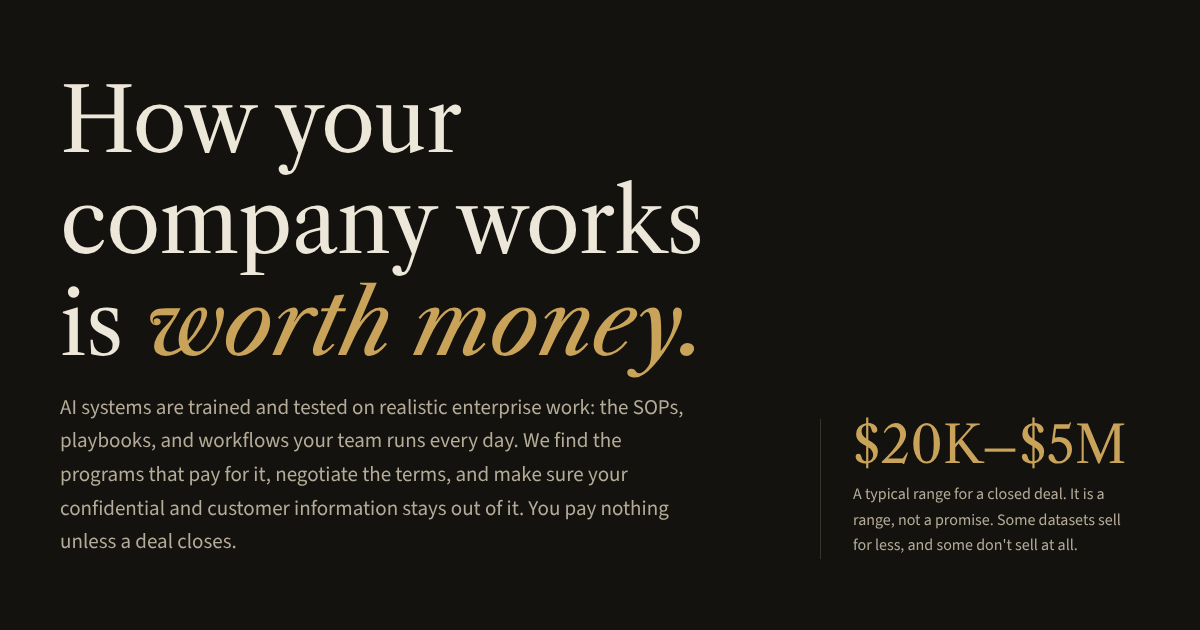
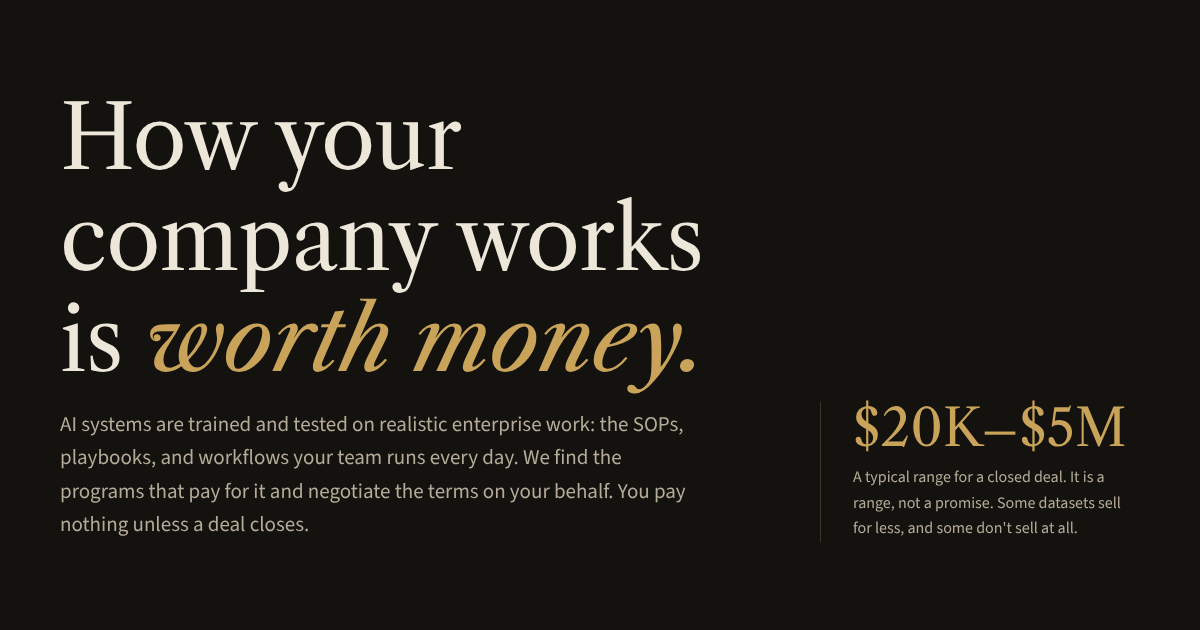
Remove claims that data will be scrubbed or redacted
Claude-Session: https://claude.ai/code/session_01WvBVaP6akkrshjtXrAuSnp

Changed region(s): [[0.0308, 0.1206, 0.5858, 0.8746], [0.7092, 0.6333, 0.9558, 0.8746]]

diff --git a/index.html b/index.html
@@ -4,7 +4,7 @@
   <meta charset="utf-8">
   <meta name="viewport" content="width=device-width, initial-scale=1">
   <title>Paystreak Data | Earn Revenue From Your Company's Operational Knowledge</title>
-  <meta name="description" content="Paystreak Data is a Boston-based data brokerage. We help operationally mature companies earn revenue by licensing scrubbed SOPs, playbooks, knowledge bases, and workflow data to programs that train and evaluate AI systems. No upfront cost.">
+  <meta name="description" content="Paystreak Data is a Boston-based data brokerage. We help operationally mature companies earn revenue by licensing SOPs, playbooks, knowledge bases, and workflow data to programs that train and evaluate AI systems. No upfront cost.">
   <link rel="canonical" href="https://paystreakdata.com/">
   <meta name="theme-color" content="#14120e">
 
@@ -12,7 +12,7 @@
   <meta property="og:type" content="website">
   <meta property="og:site_name" content="Paystreak Data">
   <meta property="og:title" content="Paystreak Data | How your company works is worth money">
-  <meta property="og:description" content="A Boston-based data brokerage for operationally mature companies. Sensitive information scrubbed, originals deleted after processing, you keep ownership, and no upfront cost.">
+  <meta property="og:description" content="A Boston-based data brokerage for operationally mature companies. We find the buyers and negotiate the terms. You keep ownership, and there's no upfront cost.">
   <meta property="og:url" content="https://paystreakdata.com/">
   <meta property="og:image" content="https://paystreakdata.com/og-image.png">
   <meta property="og:image:width" content="1200">
@@ -33,7 +33,7 @@
   "url": "https://paystreakdata.com/",
   "email": "contact@paystreakdata.com",
   "image": "https://paystreakdata.com/og-image.png",
-  "description": "Paystreak Data is a Boston-based data brokerage serving operationally mature companies across the United States. We help technology companies, BPOs, recruiting firms, financial services, consulting, professional services, legal and compliance, healthcare administration, and logistics businesses earn revenue from their operational knowledge by licensing scrubbed internal documentation and workflow data to programs that train and evaluate AI systems.",
+  "description": "Paystreak Data is a Boston-based data brokerage serving operationally mature companies across the United States. We help technology companies, BPOs, recruiting firms, financial services, consulting, professional services, legal and compliance, healthcare administration, and logistics businesses earn revenue from their operational knowledge by licensing internal documentation and workflow data to programs that train and evaluate AI systems.",
   "address": {
     "@type": "PostalAddress",
     "addressLocality": "Boston",
@@ -49,8 +49,7 @@
     "AI training data",
     "AI evaluation data",
     "Enterprise workflow data",
-    "Data licensing",
-    "Data redaction"
+    "Data licensing"
   ],
   "audience": {
     "@type": "BusinessAudience",
@@ -81,10 +80,10 @@
     },
     {
       "@type": "Question",
-      "name": "What about client confidentiality?",
+      "name": "What about confidentiality?",
       "acceptedAnswer": {
         "@type": "Answer",
-        "text": "Sensitive and confidential information is scrubbed before any downstream use, no customer information is exposed, and you approve every sample before it goes out. Privileged legal communications, patient records, and similar material need consent and legal review, and are often off the table entirely. We recommend having your own lawyer review any contract before you sign it."
+        "text": "How the data is handled is set out in the license between you and the buyer, and you approve what you share before anything goes out. Privileged legal communications, patient records, and similar material may need consent and legal review, and are often off the table entirely. We recommend having your own lawyer review any contract before you sign it."
       }
     },
     {
@@ -420,7 +419,7 @@
         <div class="hero-grid">
           <div>
             <h1 id="hero-title">How your company works is <em>worth money.</em></h1>
-            <p class="lede">AI systems are trained and tested on realistic enterprise work: the SOPs, playbooks, and workflows your team runs every day. We find the programs that pay for it, negotiate the terms, and make sure your confidential and customer information stays out of it. You pay nothing unless a deal closes.</p>
+            <p class="lede">AI systems are trained and tested on realistic enterprise work: the SOPs, playbooks, and workflows your team runs every day. We find the programs that pay for it and negotiate the terms on your behalf. You pay nothing unless a deal closes.</p>
             <div class="hero-actions">
               <a class="btn btn-gold" href="#contact">Get a free assessment</a>
               <a class="text-link" href="#fit">See if you're a fit</a>
@@ -441,7 +440,7 @@
       <div class="wrap">
         <p class="eyebrow">What we look for</p>
         <h2 class="h2" id="data-title">The knowledge your team runs on.</h2>
-        <p class="lede">Many companies hold valuable operational intelligence without realizing it. These are the kinds of records buyers ask about. In every case, sensitive and confidential information is scrubbed before any downstream use.</p>
+        <p class="lede">Many companies hold valuable operational intelligence without realizing it. These are the kinds of records buyers ask about.</p>
 
         <div class="cards">
           <article class="card reveal">
@@ -547,7 +546,7 @@
           <li class="step reveal">
             <p class="step-num" aria-hidden="true">02</p>
             <h3>We bring the buyers.</h3>
-            <p>We approach vetted programs that train and evaluate AI systems, and negotiate the terms on your behalf. Buyers see only scrubbed previews until a deal is signed.</p>
+            <p>We approach vetted programs that train and evaluate AI systems, and negotiate the terms on your behalf. Nothing is shared until you approve it.</p>
           </li>
           <li class="step reveal">
             <p class="step-num" aria-hidden="true">03</p>
@@ -637,9 +636,9 @@
             </div>
           </details>
           <details>
-            <summary>What about client confidentiality?</summary>
+            <summary>What about confidentiality?</summary>
             <div class="answer">
-              <p>Sensitive and confidential information is scrubbed before any downstream use, no customer information is exposed, and you approve every sample before it goes out. Privileged legal communications, patient records, and similar material need consent and legal review, and are often off the table entirely. We recommend having your own lawyer review any contract before you sign it.</p>
+              <p>How the data is handled is set out in the license between you and the buyer, and you approve what you share before anything goes out. Privileged legal communications, patient records, and similar material may need consent and legal review, and are often off the table entirely. We recommend having your own lawyer review any contract before you sign it.</p>
             </div>
           </details>
           <details>
